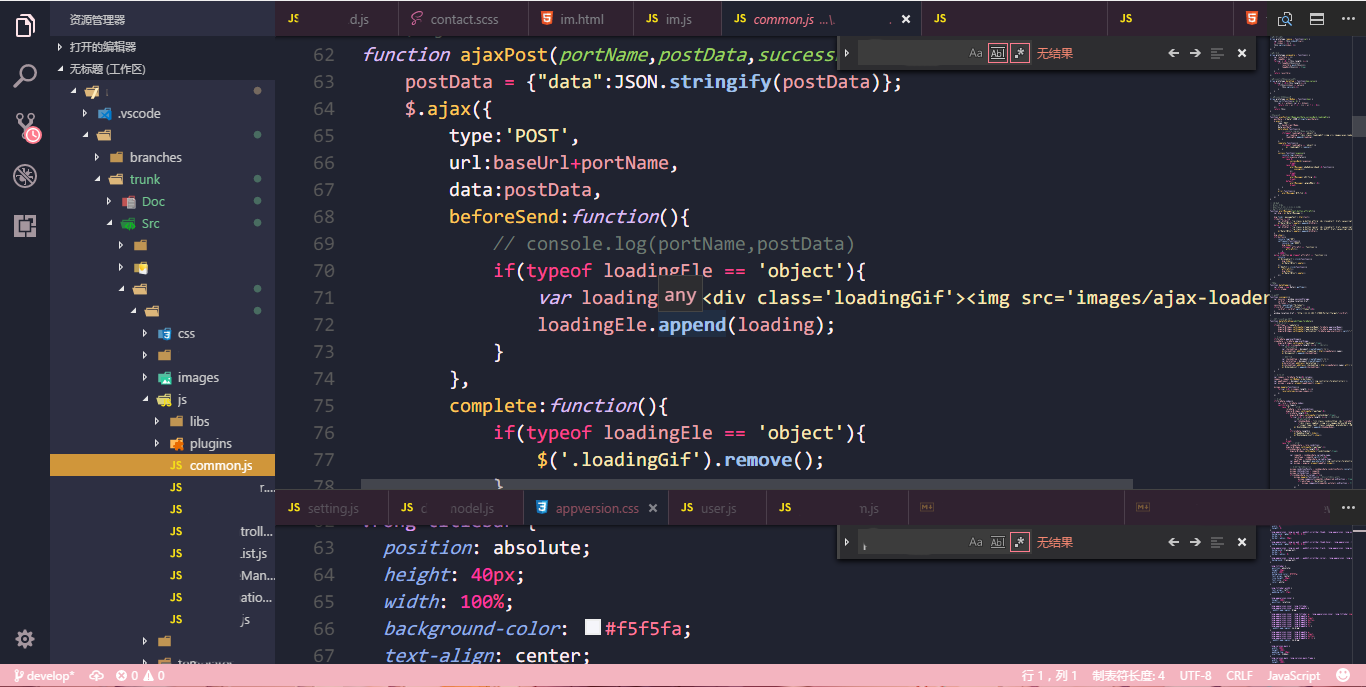
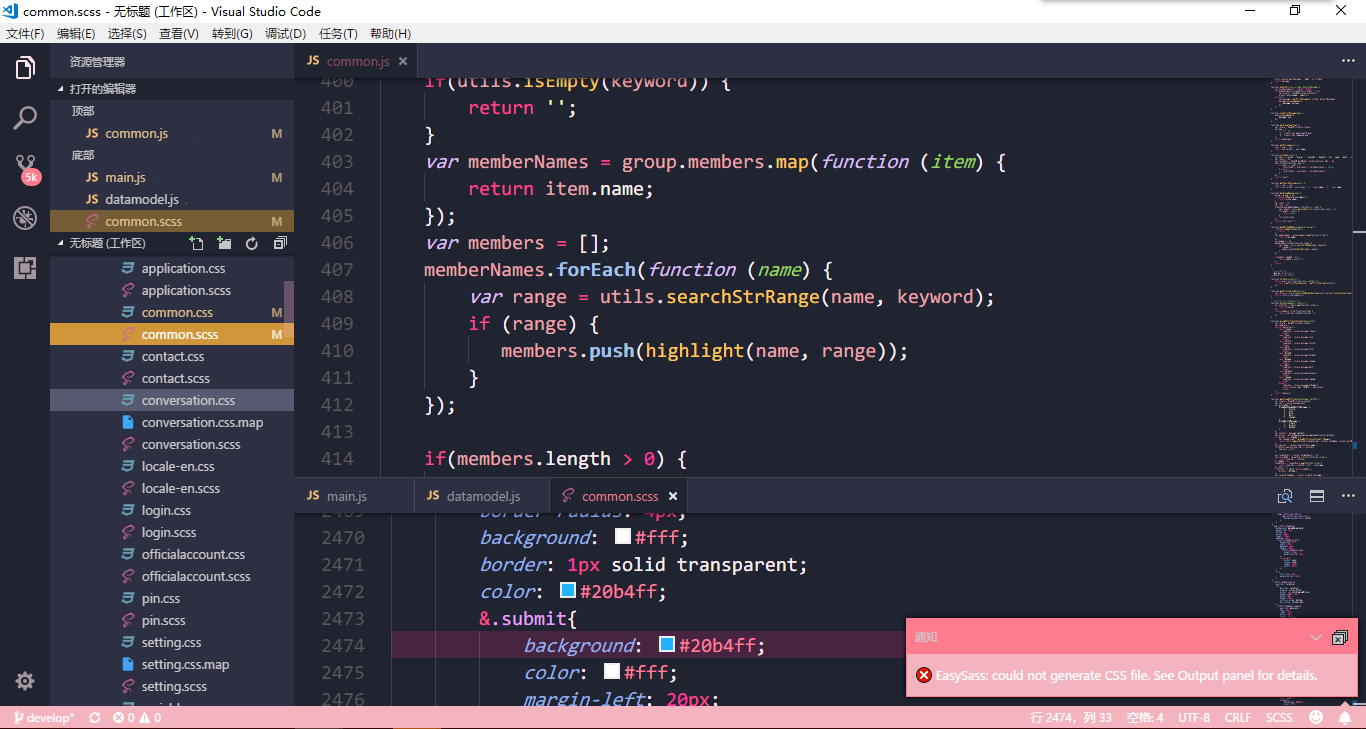
Fit the new design for notification center of VS Code 1.12.*

diff --git a/README.md b/README.md
@@ -1,11 +1,17 @@
-### About Pink-Cat-Boo
+# About Pink-Cat-Boo
 
-Happy Women's Day, girls.
-This is a cute & warm theme for our girls js-coder, with rose pink, light purple, banana yellow and sky blue. 
-Hope yall like it:)
+Hi~☆  
+This is a cute & warm theme, especially for coder girls. Mainly designed with rose pink, light purple, banana yellow and sky blue.  
+Hope yall like it (ง •▿•́)ง 
 
 ### Screenshot
 ![Preview](https://raw.githubusercontent.com/ftsamoyed/PinkCatBoo/master/preview.png)
 
-### Based on
-PinkCatBoo theme was on the basis of monokai dimmed. 
+### Update
+##### v1.1 (2018/3/20)
+ - Change the color of scroll bar
+ - Fit the new design for notification center (only apply for VS Code versions 1.21 and higher)
+ - Change the background color of editor group header
+
+# Based on
+Pink-Cat-Boo theme was on the basis of monokai dimmed.
